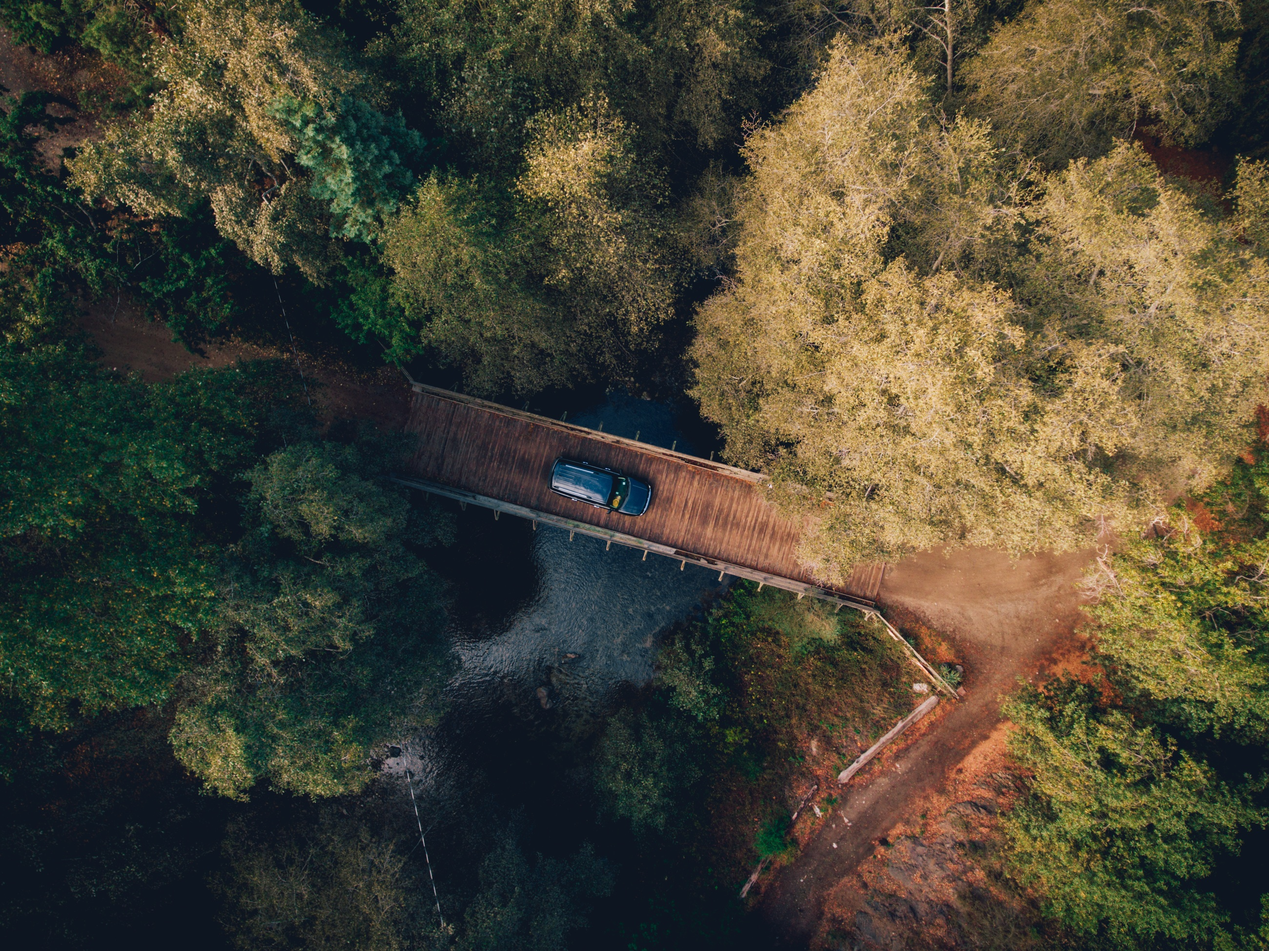
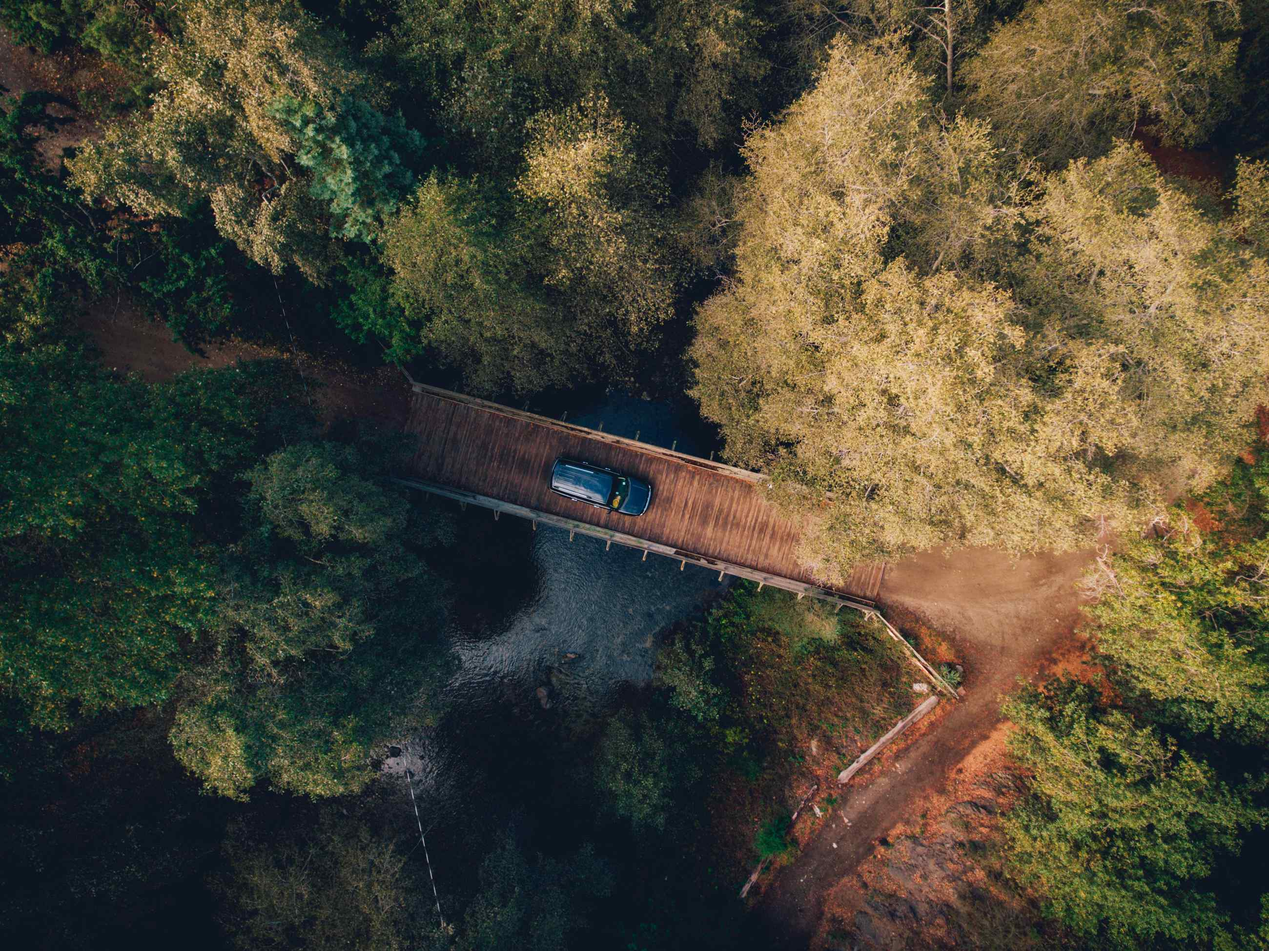
image optim; email

diff --git a/home.html b/home.html
@@ -33,6 +33,9 @@
           <a href ="https://github.com/r0fls">
             <i class="fa fa-github-square fa-3x" aria-hidden="true"></i>
           </a>
+          <a href ="mailto:raphael.deem@gmail.com">
+            <i class="fa fa-envelope fa-3x" aria-hidden="true"></i>
+          </a>
         </div>
         <div class="text">
           <a href="mailto:raphael.deem@gmail.com"><p> Raphael Deem</p></a>

diff --git a/styles.css b/styles.css
@@ -60,7 +60,7 @@ table {
   margin-top: 30px;
   padding-top: 10px;
   padding-bottom: 10px;
-  min-width: 250px;
+  min-width: 320px;
   text-align: center;
   /*border: 1px solid white;*/
 }
